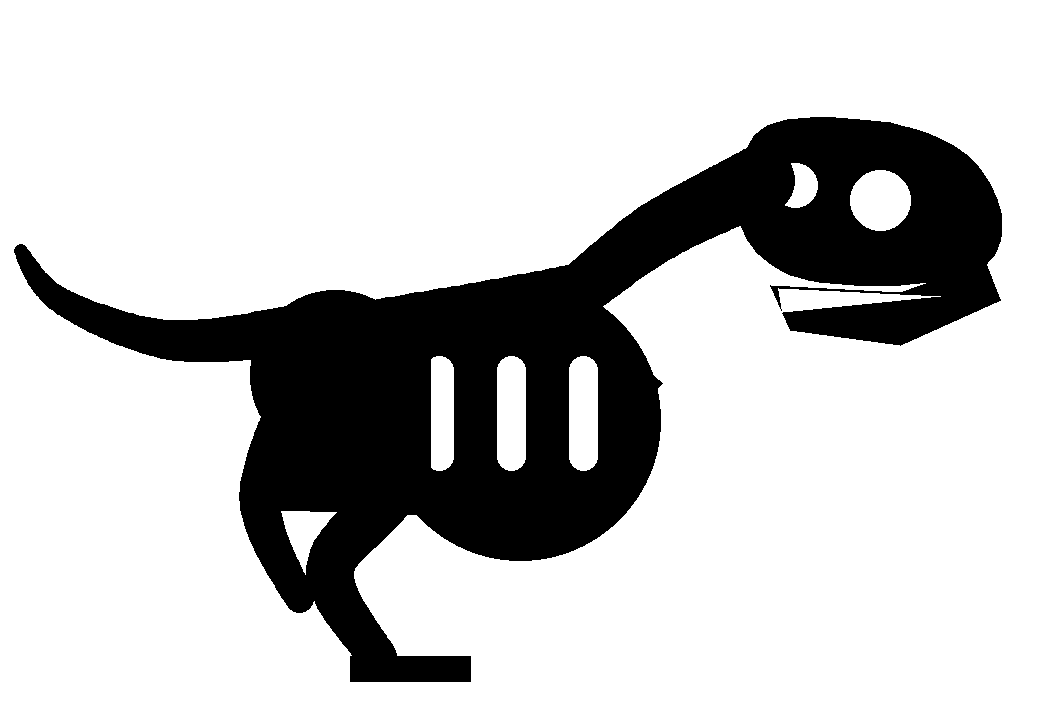
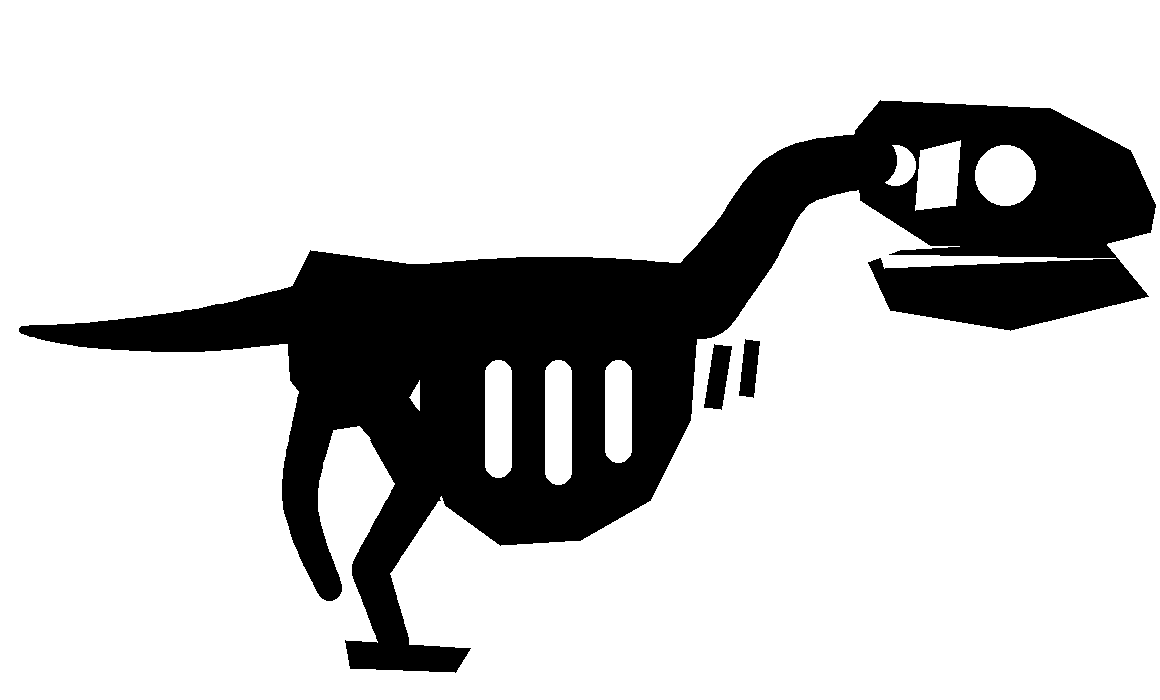
Seahorse v3 (no eye) and trex v4 (anatomical), per Eric
Seahorse: Eric asked first for the eye where a real seahorse carries it,
then "no eye for the seahorse" -- the placement never looked right, so
it is gone and the silhouette carries the head. One clean contour.

Trex v4, "no cartoonish trex": the cartoon lived in the curves, so the
mount is angular now -- deep boxy skull with the three real fenestrae
(orbit, antorbital, lateral temporal) as holes, straight gape, S-curved
neck into a near-horizontal spine, deep D-shaped cage tapering rearward,
theropod pelvis in the outline, femur/tibia/metatarsus as distinct
segments, and a LONG straight counterbalance tail. The famously tiny
arms hang from the chest as a detached micro pair -- floating above the
ribs they read as a stray dash.

Three joins bit again and are recorded where they happened: a 6px jaw
kiss left it a floating flagged contour (20px hinge overlap now -- third
time this class of join has bitten); the scalloped underside of a
tapered spine stroke against the cage's straight top trapped white
slivers that traced as stray micro dashes INSIDE the body (cage raised
into the stroke); and the snout lengthened out of bluntness.

Both zero flags. Sidecars pending Eric's verdicts; rooster v2 unchanged
and also pending.

diff --git a/tools/draw_wave2.py b/tools/draw_wave2.py
@@ -239,53 +239,63 @@ def seahorse():
     tapered_stroke(d, [(400, 210), (300, 230), (210, 250)], 26, 10)  # snout
     d.polygon([(360, 130), (420, 60), (440, 160)], fill=BLACK)       # coronet
     tapered_stroke(d, [(470, 380), (560, 430), (520, 540), (450, 560)], 16, 12)  # dorsal fin
-    circle(d, 395, 265, 28, WHITE)                                   # eye
-    circle(d, 395, 265, 12, BLACK)                                   # pupil (micro)
+    # Eric, two notes in sequence: first "the eye where a seahorse would
+    # actually have an eye", then "no eye for the seahorse" -- the placement
+    # never looked right, so the eye is gone. The silhouette carries it.
     return im
 
 
 def trex_skeleton():
-    """v2 (Eric failed the lumpy v1). A proper museum mount: horizontal
-    posture, huge skull with hinged jaw, arched spine over a deep ribcage,
-    z-bent hind legs, long tapering tail. One connected mass; detail in
-    the holes (eye socket, jaw gap, four rib slots); the tiny arm micro."""
-    im, d = canvas(1060, 720)
-    # skull: deep box with a brow step, hinged jaw below
-    smooth_poly(d, [
-        (760, 130), (870, 120), (960, 150), (1000, 210),
-        (985, 265), (900, 285), (790, 275), (740, 220),
-    ], samples=10)
-    d.polygon([(985, 262), (1000, 300), (900, 345), (790, 330), (770, 285), (900, 292)], fill=BLACK)  # jaw, hinged right
-    d.polygon([(778, 288), (940, 296), (782, 312)], fill=WHITE)     # jaw gap
-    circle(d, 880, 200, 30, WHITE)                                  # eye socket
-    circle(d, 795, 185, 22, WHITE)                                  # antorbital hole
-    # neck arching down to the spine
-    tapered_stroke(d, [(760, 180), (660, 230), (580, 290)], 34, 26)
-    # spine arc over the hips
-    tapered_stroke(d, [(580, 290), (460, 310), (330, 330)], 26, 22)
-    # ribcage: deep ellipse hanging from the spine
-    # Deep cage: at 520 the ellipse curved up to within 2px of the slot
-    # bottoms at the outer slots -- another knife edge, this time from
-    # geometry curving INTO the straight slots. 60px of floor under every
-    # slot now.
-    d.ellipse([380, 280, 660, 560], fill=BLACK)
-    # Slots start below the spine stroke (the v1 knife-edge, relearned at a
-    # different y) and the gaps widened past the corridor floor at this
-    # canvas's scale (0.477: 30px ref was a 14.3px corridor -- a coin flip).
-    for x in (425, 497, 569):                                       # rib slots
-        capsule(d, x, 356, x + 28, 470, WHITE)
-    # hip mass, big enough to swallow the leg junctions -- the v2 hip left
-    # an enclosed white pocket between hip, leg and ribcage, which traced as
-    # an accidental word-hosting hole.
-    circle(d, 335, 375, 85, BLACK)
-    d.polygon([(265, 310), (430, 335), (430, 515), (280, 510)], fill=BLACK)  # weld hip to cage: no pocket
-    tapered_stroke(d, [(330, 380), (390, 480), (330, 570), (380, 660)], 34, 18)
-    d.line([(350, 668), (470, 668)], fill=BLACK, width=26)          # foot
-    tapered_stroke(d, [(300, 390), (260, 500), (300, 600)], 26, 14) # far leg
-    # tail: long taper out the back
-    tapered_stroke(d, [(300, 330), (170, 340), (60, 300), (20, 250)], 26, 6)
-    # the famous tiny arm (detached, micro)
-    d.line([(610, 350), (655, 390)], fill=BLACK, width=22)
+    """v3 (Eric: "no cartoonish trex"). Anatomical museum-mount profile:
+    deep angular skull with the real fenestrae (eye socket, antorbital,
+    lateral temporal), S-curved neck, near-horizontal spine, deep D-shaped
+    ribcage tapering rearward, the tall theropod pelvis blade, a hind leg
+    with distinct femur/tibia/metatarsus segments, and a LONG straight
+    counterbalance tail -- almost half the animal. Angular polygons, not
+    rounded blobs: cartoon lives in the curves."""
+    im, d = canvas(1160, 700)
+    # --- skull: deep, boxy, truncated snout, angular ---
+    d.polygon([(880, 100), (1050, 108), (1130, 150), (1155, 205), (1150, 232),
+               (1080, 250), (930, 245), (860, 200), (855, 130)], fill=BLACK)
+    # jaw: deep and straight, hinged at the back, narrow gape at the front
+    # hinge OVERLAPS the skull by 20px at the back -- a 6px kiss left the
+    # jaw a floating contour 3px away, flagging both, third time this class
+    # of join has bitten
+    d.polygon([(1090, 225), (1148, 296), (1010, 330), (890, 310),
+               (868, 262), (900, 250), (1060, 240)], fill=BLACK)
+    d.polygon([(880, 254), (1115, 258), (884, 268)], fill=WHITE)   # gape
+    circle(d, 1005, 175, 30, WHITE)                                # eye socket (orbit)
+    d.polygon([(920, 150), (960, 140), (955, 205), (915, 210)], fill=WHITE)  # antorbital fenestra
+    circle(d, 895, 165, 20, WHITE)                                 # lateral temporal
+    # --- neck: S-curve, thick at the shoulders ---
+    tapered_stroke(d, [(870, 160), (790, 180), (740, 250), (700, 300)], 26, 40)
+    # --- spine: near-horizontal, slight arch over the hips ---
+    tapered_stroke(d, [(700, 295), (560, 285), (430, 290), (330, 300)], 30, 24)
+    # --- ribcage: deep D, deepest behind the shoulder, tapering rearward ---
+    # cage top raised into the spine stroke: the scalloped underside of a
+    # tapered stroke against a straight edge traps white slivers that trace
+    # as stray micro dashes INSIDE the body
+    d.polygon([(700, 282), (690, 420), (650, 500), (580, 540),
+               (500, 545), (445, 505), (420, 430), (420, 298)], fill=BLACK)
+    for x, y1 in [(485, 505), (545, 512), (605, 490)]:             # rib slots
+        capsule(d, x, 360, x + 26, y1 - 28, WHITE)
+    # --- pelvis: the tall theropod blade over the hip ---
+    d.polygon([(310, 250), (420, 265), (430, 360), (395, 420),
+               (330, 430), (290, 380), (285, 300)], fill=BLACK)
+    d.polygon([(390, 425), (440, 500), (410, 510), (370, 440)], fill=BLACK)  # pubis, down-forward
+    # --- hind leg: femur / tibia / metatarsus, knee forward ankle back ---
+    tapered_stroke(d, [(360, 380), (430, 470)], 30, 24)            # femur
+    tapered_stroke(d, [(430, 470), (370, 570)], 24, 18)            # tibia
+    tapered_stroke(d, [(370, 570), (395, 645)], 18, 14)            # metatarsus
+    d.polygon([(345, 640), (470, 648), (455, 672), (350, 668)], fill=BLACK)  # toes
+    # far leg, half-tone silhouette behind
+    tapered_stroke(d, [(320, 400), (300, 500), (330, 590)], 22, 12)
+    # --- tail: LONG, straight, tapering to a point at the far left ---
+    tapered_stroke(d, [(320, 310), (200, 330), (90, 335), (22, 330)], 30, 3, samples=90)
+    # --- the arms, famously tiny: hanging DOWN from the chest, forward of
+    # the cage (floating above the ribs they read as a stray dash) ---
+    d.line([(722, 345), (712, 408)], fill=BLACK, width=18)
+    d.line([(752, 340), (746, 396)], fill=BLACK, width=15)
     return im
 
 
